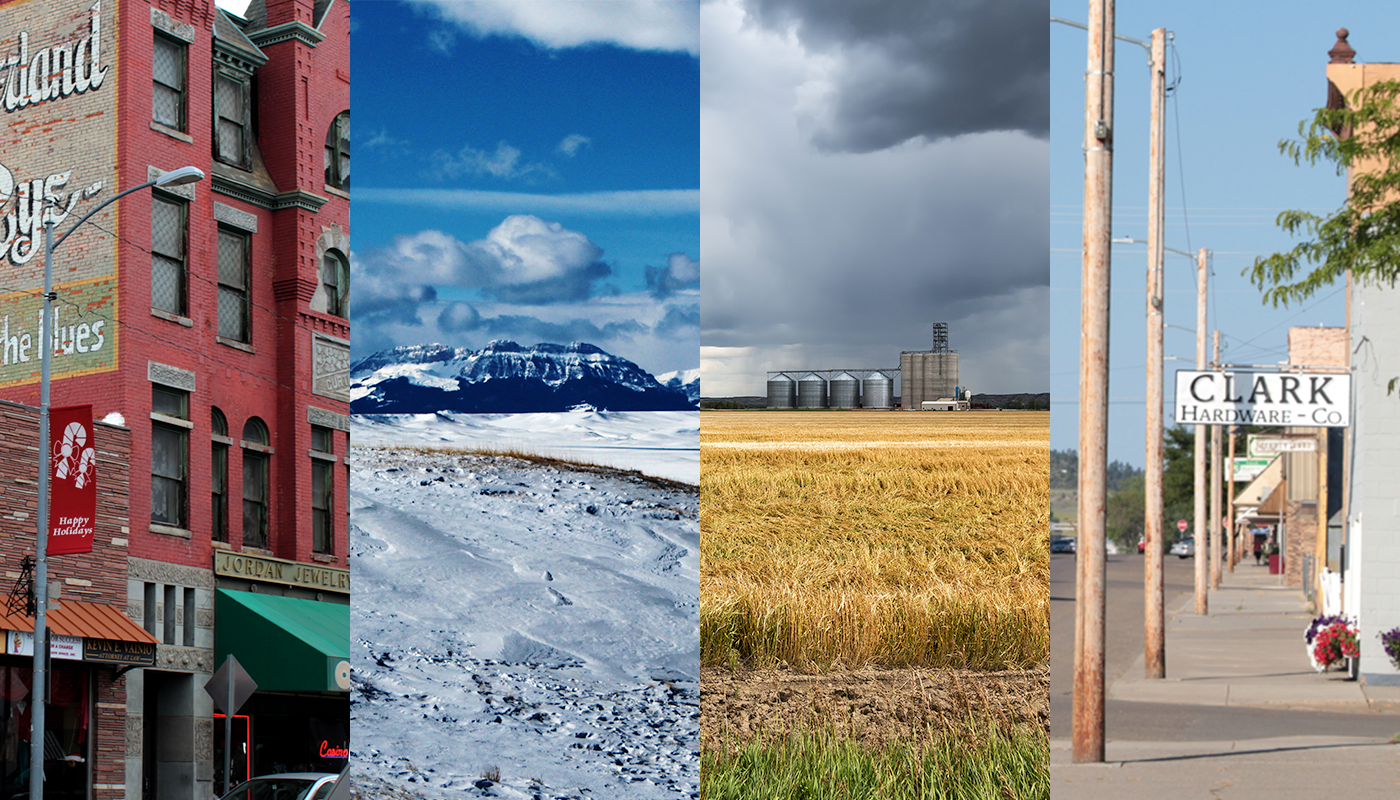
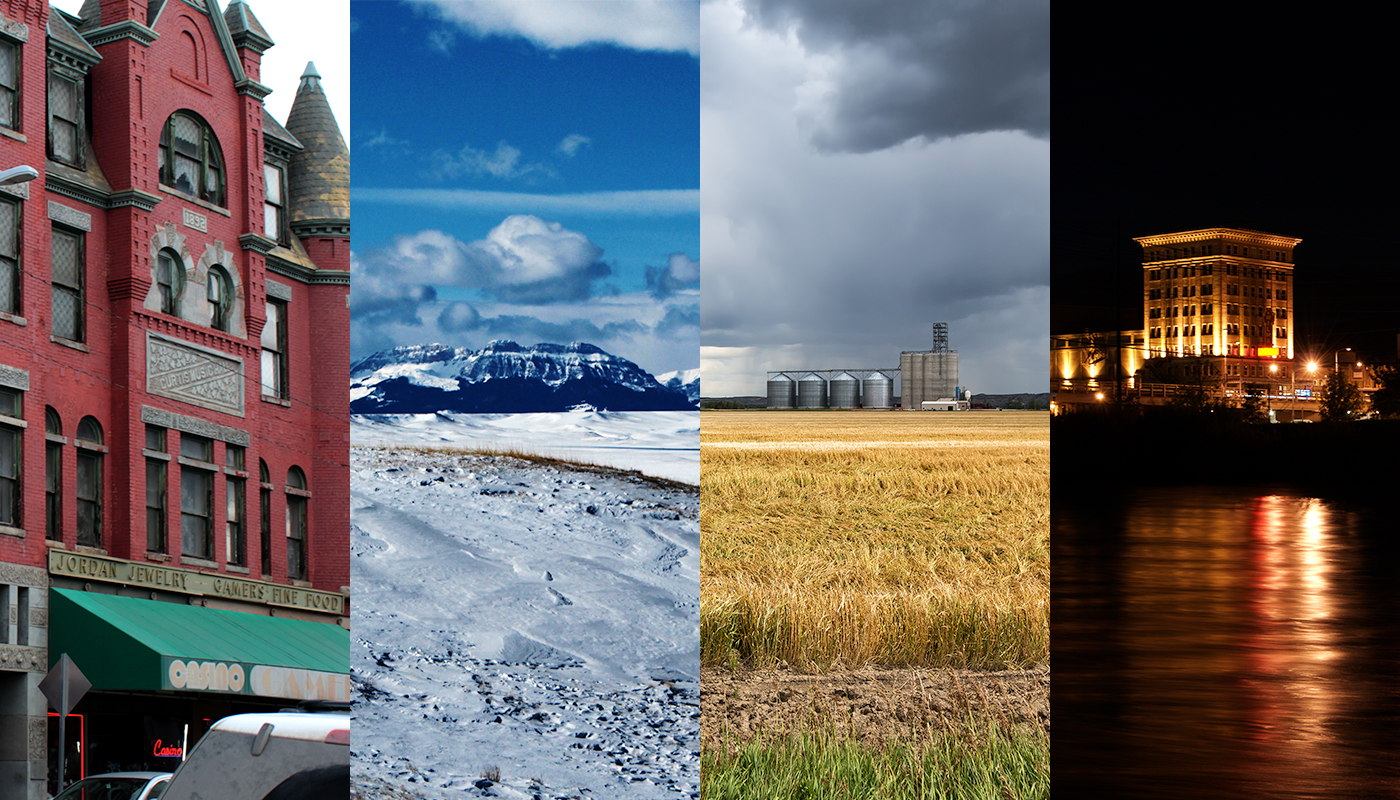
Final prep for launch

diff --git a/layouts/partials/republication-box.html b/layouts/partials/republication-box.html
@@ -1,7 +1,16 @@
 {{ $params := . }}
+{{ with eq .type "article"}}
+    <footer class="block box">
+        <h3 class="title is-4">Republish this piece</h3>
+        <p>This story is available for free re-publication starting two weeks after its initial publication. See <a href="/republication/">here</a> for more information.</a></p>
+    </footer>
+{{ end }}
+<!-- 
 {{ with $params.republication }}
     <footer class="block box">
         <h3 class="title is-4">Republish this piece</h3>
-        <div>Republication message TK. Available {{ $params.republication }}. <a href="/republication/">More information.</a></div>
+        <p>
+            Montana Fourth Estate stories are available for free re-publication by any Montana news outlet starting two weeks after the story’s initial publication (<strong>{{ $params.republication }}</strong> for this piece). See <a href="/republication/">here</a> for more information.</a>
+        </p>
     </footer>
-{{ end }}
+{{ end }} -->

diff --git a/layouts/partials/homepage.html b/layouts/partials/homepage.html
@@ -62,6 +62,8 @@
             <a href="/about">>> Learn more</a>
           </div>
         </div>
+
+        <hr />
         
 
         {{/*  <div>{{ .Content }}</div>  */}}
@@ -108,11 +110,19 @@
               {{ $project.Set "subtitle" .Params.subtitle }}
               {{ $project.Set "logotype" .Params.logotype }}
               {{ printf "img/projects/%s.%s" .Params.logoslug .Params.logotype | $project.Set "logo" }}
+              <hr />
               {{ partial "project-banner-homepage-non-featured.html" $project }}
             {{ end }}
           {{ end }}
         </div>
       </div>
     </div>
+  </div>
+</section>
+
+<section class="section">
+  <hr />
+  <div class="has-text-grey has-text-right">
+    Header photos: Eric Dietrich; Adobe Stock; Mark Moss
   </div>
 </section>

diff --git a/layouts/partials/footer.html b/layouts/partials/footer.html
@@ -18,16 +18,19 @@
           {{ range .Site.Menus.footer }}
             {{ template "footer-link" . }}
           {{ end }}
+          {{ range .Site.Menus.projects }}
+            {{ template "footer-link" . }}
+          {{ end }}
         </ul>
       </div>
-      <div class="column is-6">
+      <!-- <div class="column is-6">
         <h3 class="has-text-weight-semibold is-uppercase">Projects</h3>
         <ul>
           {{ range .Site.Menus.projects }}
             {{ template "footer-link" . }}
           {{ end }}
         </ul>
-      </div>
+      </div> -->
       <!-- <div class="column is-3">
         <h3 class="has-text-weight-semibold is-uppercase">Follow Us</h3>
         <ul>

diff --git a/layouts/partials/project-logo.html b/layouts/partials/project-logo.html
@@ -2,16 +2,16 @@
 {{ $logotype := .Get "logotype" | default "png"}}
 {{ $name := .Get "name" | default "Project logo"}}
 {{ $url := .Get "url" }}
-<div style="max-width: 400px">
+<div style="max-width: 600px">
     {{ if eq $logotype "svg" }}
         <div class="is-sr-only">Logo for {{ $name }}</div>
     {{ $logo.Content| safeHTML }}
     {{ else }}
-    {{ $logo = $logo.Resize "x400" | fingerprint }}
+    {{ $logo = $logo.Resize "x600" | fingerprint }}
     <img
         src="{{ $logo.RelPermalink }}"
         alt="Logo for {{ $name }}"
-        style="max-height: 200px;"
+        
     >
     {{ end }}
 </div>

diff --git a/layouts/partials/about.html b/layouts/partials/about.html
@@ -1,9 +1,13 @@
-{{ $bgImg := resources.Get "/img/bgs/old-cabin-darkened-3.png" }}
+{{ $bgImg := resources.Get "/img/bgs/journalists-working.jpg" }}
 {{ $bgImg = $bgImg.Resize "1200x" | fingerprint }}
 <style>
 #about-hero {
   background-image: url('{{ $bgImg.RelPermalink }}');
   background-position: 80%;
+  max-width: 1000px;
+  margin: 1em auto;
+  min-height: 400px;
+  text-shadow: 2px 2px 5px #222;
 }
 </style>
 <section

diff --git a/layouts/partials/project-banner-homepage-featured.html b/layouts/partials/project-banner-homepage-featured.html
@@ -7,8 +7,8 @@
 {{ $content := .Get "content"}}
 {{ $url := .Get "url" }}
 
-<div class="columns">
-  <div class="column is-two-thirds">
+<div class="columns is-centered">
+  <div class="column is-half">
     <a
       href="{{ $url }}"
       title="{{ $title }}"

diff --git a/content/about/_index.md b/content/about/_index.md
@@ -1,17 +1,19 @@
 +++
 linktitle = "About"
 title = "The Montana Fourth Estate Project"
-subtitle = "Montana news outlets teaming up to tackle the state's toughest issues by investigating solutions."
-description = "TK social description"
+subtitle = "A statewide collaboration of journalists working together to give Montanans more of the story"
+description = "A statewide collaboration of journalists working together to give Montanans more of the story"
 title-tag = "About | The Montana Fourth Estate Project"
 type = "about-page"
 section = "root"
 suppress-title = true # About page has custom banner w/ title/subtitle
 +++
 
-TK MT Fourth Estate elevator pitch. Something about history of the phrase etc. etc.
+The Montana Fourth Estate Project is a collaboration among 15 Montana newspapers, Yellowstone Public Radio, the University of Montana School of Journalism, and Montana Free Press. Its purpose is to leverage the resources of statewide media to provide coordinated, in-depth coverage of important social issues to readers in communities big and small, rural and urban, all across the state. 
+ 
+The collaboration formed to create an inaugural reporting series titled Graying Pains: Challenges and Opportunities in the West’s Oldest State. Graying Pains is funded by the [Montana Newspaper Association](https://www.mtnewspapers.com/) with support from the [Solutions Journalism Network](https://www.mtnewspapers.com/), a nonprofit that promotes rigorous reporting on responses to social problems. Funding has been provided by the [LOR Foundation](https://lorfoundation.org/) and the [Kendeda Fund](https://kendedafund.org/).
 
-For more information, contact Project Editor Brad Tyer at [btyer@montanafreepress.org](mailto:btyer@montanafreepress.org).
+[Montana Free Press](https://montanafreepress.org/), a Helena-based statewide nonprofit news organization, is coordinating the collaboration. For more information, contact Project Editor Brad Tyer at [btyer@montanafreepress.org](mailto:btyer@montanafreepress.org).
 
 {{<content-header>}}Project coordinator{{</content-header>}}
 {{<coordinator-logos>}}

diff --git a/content/graying-pains/_index.md b/content/graying-pains/_index.md
@@ -5,7 +5,7 @@ layout = 'project'
 title = "Graying Pains"
 subtitle = "Opportunities & challenges in the West's oldest state"
 linktitle = "Graying Pains"
-description = "Social media description?"
+description = "Opportunities & challenges in the West's oldest state"
 color = "#d6b87f"
 
 logoslug = "graying-pains"
@@ -16,4 +16,4 @@ ispublished = true
 order = 4
 
 +++
-With a median age of XXX, Montanans are old relative to other states in the Western U.S. And the state is forecasted to get older. That creates challenges. And opportunities. We're digging in. TK edit this to framing language roughly this length.
+Montana is the oldest state west of the Mississippi, and is growing older as more Montanans enter their senior years. The economic, cultural, and personal impacts of that trend present Montanans with new challenges, and new opportunities for change. Graying Pains, launching in March 2020, is a six-month series of weekly stories and broadcasts exploring how Montanans can improve with age. 

diff --git a/content/republication/_index.md b/content/republication/_index.md
@@ -7,4 +7,8 @@ type = "page"
 section = "root"
 +++
 
-TK information here
+Print and audio stories in the Graying Pains series are produced by members of The Montana Fourth Estate Project, which have first publication rights to all content. Graying Pains stories are published by Fourth Estate partners on a schedule of one per week, starting March 12, 2020, and continuing through August 2020. 
+ 
+All Graying Pains stories are available for free re-publication by any Montana news outlet starting two weeks after the story’s initial publication. Story materials will be distributed via email to Montana Newspaper Association member publications as they are available for re-publication. 
+ 
+If you are a non-MNA member publication that wishes to re-publish Graying Pains stories, or have any questions regarding re-publication, please contact Montana Free Press editor Brad Tyer at [btyer@montanafrepress.org](mailto:btyer@montanafrepress.org).

diff --git a/content/_index.md b/content/_index.md
@@ -2,7 +2,7 @@
 linktitle = "Home"
 title = "The Montana Fourth Estate Project"
 subtitle = ""
-tagline = "Montana news outlets teaming up to tackle the state's toughest issues by investigating solutions."
-description = "The Montana Fourth Estate: Montana news outlets teaming up to tackle the state's toughest issues by investigating solutions"
+tagline = "A statewide collaboration of journalists working together to give Montanans more of the story"
+description = "A statewide collaboration of journalists working together to give Montanans more of the story"
 title-tag = "The Montana Fourth Estate"
 +++
